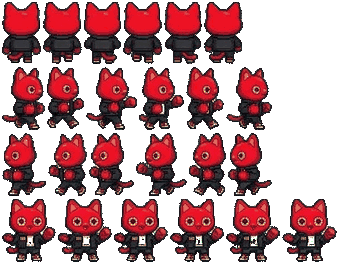
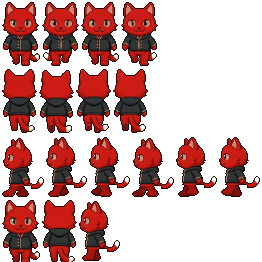
Mist con la hoja de Grok: frente y espalda de 4 cuadros, lado de 6 con piernas que se alternan (v1.17.3)
Claude-Session: https://claude.ai/code/session_012giJR8jrsmCsJ3cu1HsXxX

diff --git a/js/personaje/mascota.js b/js/personaje/mascota.js
@@ -7,10 +7,11 @@
 const GATOS_DIR = [{"muerto":[[0,0,128,65,63.5,65]],"q_ab":[[139,196,63,94,26.2,94],[204,196,62,94,26.2,94]],"ab":[[268,196,62,94,34.1,94],[332,196,64,94,36.1,94],[398,196,62,95,35.4,95],[462,196,63,94,35.1,94]],"q_ar":[[527,196,59,95,26.2,95],[588,196,59,95,26.2,95]],"ar":[[649,196,59,95,26.6,95],[710,196,59,95,26.8,95],[771,196,59,94,31.9,94],[832,196,59,95,31.9,95]],"q_lado":[[893,196,68,94,25.8,94],[963,196,68,94,25.9,94]],"lado":[[1033,196,69,95,25.7,95],[1104,196,69,95,26.3,95],[1175,196,69,95,25.9,95],[1246,196,70,95,26.7,95]],"q_de":[[1318,196,68,95,40.7,95],[0,294,62,95,19.8,95]],"de":[[64,294,70,95,42.4,95],[136,294,70,96,42.6,96],[208,294,69,95,42.1,95],[279,294,70,96,42.4,96]]},{"ab":[[130,0,76,96,32.0,96],[208,0,77,96,31.5,96],[287,0,77,96,31.5,96],[366,0,79,96,31.5,96]],"ar":[[447,0,86,96,48.5,96],[535,0,81,96,37.5,96],[618,0,75,96,35.0,96],[695,0,74,96,31.5,96],[771,0,73,96,32.0,96]],"lado":[[846,0,82,96,34.0,96],[930,0,82,96,32.0,96],[1014,0,84,96,33.0,96],[1100,0,85,96,36.5,96],[1187,0,80,96,35.5,96],[1269,0,80,96,35.0,96]],"de":[[0,98,86,96,49.5,96],[88,98,76,96,42.5,96],[166,98,87,96,50.0,96],[255,98,75,96,44.0,96],[332,98,77,96,43.5,96],[411,98,72,96,42.5,96]],"muerto":[[485,98,122,56,60.5,56]]},{"ab":[[609,98,95,96,36.5,96]],"ar":[[706,98,94,96,35.5,96]],"lado":[[802,98,92,96,32.5,96],[896,98,98,96,33.0,96],[996,98,93,96,34.0,96]]},{"ab":[[1091,98,73,96,30.5,96],[1166,98,72,96,28.0,96]],"ar":[[1240,98,70,96,28.0,96],[1312,98,66,96,36.5,96],[0,196,67,96,36.0,96]],"lado":[[69,196,68,96,25.0,96]]}];
 const GATOS = null;
 const GATOS_IMG = new Image();
-// Mist (Gato Carmesí) tiene su propia hoja en pixel art: frente, espalda, izquierda (lado) y derecha (de), 6 cuadros cada una.
+// Mist (Gato Carmesí) tiene su propia hoja en pixel art: frente y espalda (4 cuadros), lado mirando a la izquierda (6 cuadros; se refleja
+// para la derecha) y un cuadro quieto por vista.
 // k: cuánto más chica es su hoja que las de 96 px; px: se dibuja con escala entera y sin suavizar para que los píxeles queden limpios
 const MIST_IMG = new Image();
-GATOS_DIR[0] = Object.assign({"ar": [[2, 2, 39, 62, 19.5, 62], [43, 2, 39, 62, 19.5, 62], [84, 2, 37, 62, 18.5, 62], [123, 2, 39, 62, 19.5, 62], [164, 2, 38, 62, 19.0, 62], [204, 2, 39, 62, 19.5, 62]], "de": [[2, 67, 43, 63, 21.5, 63], [47, 67, 37, 62, 18.5, 62], [86, 67, 51, 63, 25.5, 63], [139, 67, 45, 63, 22.5, 63], [186, 67, 38, 63, 19.0, 63], [226, 67, 46, 63, 23.0, 63]], "lado": [[2, 133, 44, 63, 22.0, 63], [48, 133, 39, 63, 19.5, 63], [89, 133, 45, 63, 22.5, 63], [136, 133, 51, 63, 25.5, 63], [189, 133, 37, 63, 18.5, 63], [228, 133, 44, 63, 22.0, 63]], "ab": [[2, 199, 54, 63, 27.0, 63], [58, 199, 54, 63, 27.0, 63], [114, 199, 54, 63, 27.0, 63], [170, 199, 54, 63, 27.0, 63], [226, 199, 54, 63, 27.0, 63], [282, 199, 55, 63, 27.5, 63]]}, { img:MIST_IMG, k:96 / 62, px:true });
+GATOS_DIR[0] = Object.assign({"ab": [[2, 2, 38, 64, 19.0, 64], [42, 2, 37, 64, 18.5, 64], [81, 2, 38, 64, 19.0, 64], [121, 2, 37, 64, 18.5, 64]], "ar": [[2, 69, 35, 64, 17.5, 64], [39, 70, 35, 63, 17.5, 63], [76, 69, 35, 64, 17.5, 64], [113, 69, 35, 64, 17.5, 64]], "lado": [[2, 136, 42, 61, 21.0, 61], [46, 136, 41, 61, 20.5, 61], [89, 136, 41, 61, 20.5, 61], [132, 136, 42, 61, 21.0, 61], [176, 136, 41, 61, 20.5, 61], [219, 136, 41, 61, 20.5, 61]], "q_ab": [[2, 200, 38, 64, 19.0, 64]], "q_ar": [[42, 200, 35, 64, 17.5, 64]], "q_lado": [[79, 200, 41, 61, 20.5, 61]]}, { img:MIST_IMG, k:96 / 62, px:true });
 // los demás gatos también tienen su hoja propia en pixel art (4 cuadros por vista, 64 px de alto)
 const HOJAS_GATO = [[1, 'img/personajes/gato-ejecutivo.png', {"ab": [[2, 2, 39, 64, 19, 64], [43, 2, 39, 64, 19, 64], [84, 2, 39, 64, 19, 64], [125, 2, 39, 64, 19, 64]], "ar": [[2, 68, 38, 64, 19, 64], [42, 68, 38, 64, 19, 64], [82, 68, 38, 64, 19, 64], [122, 68, 38, 64, 19, 64]], "lado": [[2, 135, 41, 64, 17, 64], [45, 134, 39, 65, 15, 65], [86, 135, 41, 64, 17, 64], [129, 134, 39, 65, 15, 65]]}], [2, 'img/personajes/gato-calico.png', {"ab": [[2, 2, 63, 65, 24, 65], [67, 2, 63, 65, 24, 65], [132, 2, 63, 65, 24, 65], [197, 2, 63, 65, 24, 65]], "ar": [[2, 69, 63, 66, 24, 66], [67, 69, 63, 66, 24, 66], [132, 69, 63, 66, 24, 66], [197, 69, 63, 66, 24, 66]], "lado": [[2, 139, 62, 65, 23, 65], [66, 138, 62, 66, 23, 66], [130, 138, 62, 66, 23, 66], [194, 137, 62, 67, 23, 67]]}], [3, 'img/personajes/gato-misterioso.png', {"ab": [[2, 2, 49, 65, 20, 65], [53, 2, 49, 65, 20, 65], [104, 2, 49, 65, 20, 65], [155, 2, 49, 65, 20, 65]], "ar": [[2, 69, 47, 65, 19, 65], [51, 69, 47, 65, 19, 65], [100, 69, 47, 65, 19, 65], [149, 69, 47, 65, 19, 65]], "lado": [[2, 137, 46, 65, 18, 65], [50, 136, 46, 66, 18, 66], [98, 137, 46, 65, 18, 65], [146, 136, 46, 66, 18, 66]]}]];
 for (const [i, src, dir] of HOJAS_GATO){ const img = new Image(); img.dataset.src = src; GATOS_DIR[i] = Object.assign(dir, { img, k:96 / 62, px:true }); }

diff --git a/index.html b/index.html
@@ -16,7 +16,7 @@
 <title>Riftborn: El Ascenso del Eclipse</title>
 <link rel="preconnect" href="https://fonts.googleapis.com">
 <link href="https://fonts.googleapis.com/css2?family=Marcellus&family=Rajdhani:wght@500;600;700&display=swap" rel="stylesheet">
-<link rel="stylesheet" href="css/style.css?v=1.17.2">
+<link rel="stylesheet" href="css/style.css?v=1.17.3">
 </head>
 <body>
 <canvas id="c"></canvas>
@@ -371,42 +371,42 @@
   <button class="btn principal" id="btnRevivir">Despertar en la posada</button>
 </div>
 
-<script src="idioma/en.js?v=1.17.2"></script>
-<script src="idioma/idioma.js?v=1.17.2"></script>
-<script src="auth/auth.js?v=1.17.2"></script>
+<script src="idioma/en.js?v=1.17.3"></script>
+<script src="idioma/idioma.js?v=1.17.3"></script>
+<script src="auth/auth.js?v=1.17.3"></script>
 <!-- el juego, por temas: el orden importa (cada archivo usa lo que cargan los anteriores) -->
-<script src="js/nucleo/datos.js?v=1.17.2"></script>
-<script src="js/nucleo/partida.js?v=1.17.2"></script>
-<script src="js/mundo/ciudad.js?v=1.17.2"></script>
-<script src="js/mundo/casino.js?v=1.17.2"></script>
-<script src="js/historia/prologo.js?v=1.17.2"></script>
-<script src="js/historia/historia.js?v=1.17.2"></script>
-<script src="js/historia/videos.js?v=1.17.2"></script>
-<script src="js/mundo/edificios.js?v=1.17.2"></script>
-<script src="js/mundo/mazmorras.js?v=1.17.2"></script>
-<script src="js/nucleo/controles.js?v=1.17.2"></script>
-<script src="js/personaje/perfil.js?v=1.17.2"></script>
-<script src="js/combate/combate.js?v=1.17.2"></script>
-<script src="js/combate/clases.js?v=1.17.2"></script>
-<script src="js/combate/devorar.js?v=1.17.2"></script>
-<script src="js/combate/sacerdote-arquero.js?v=1.17.2"></script>
-<script src="js/combate/efectos.js?v=1.17.2"></script>
-<script src="js/nucleo/actualizar.js?v=1.17.2"></script>
-<script src="js/combate/jefes.js?v=1.17.2"></script>
-<script src="js/personaje/sprites.js?v=1.17.2"></script>
-<script src="js/mundo/dibujo-mundo.js?v=1.17.2"></script>
-<script src="js/personaje/mascota.js?v=1.17.2"></script>
-<script src="js/mundo/dibujo-escenas.js?v=1.17.2"></script>
-<script src="js/mundo/npc.js?v=1.17.2"></script>
-<script src="js/personaje/progreso.js?v=1.17.2"></script>
-<script src="music/sonido.js?v=1.17.2"></script>
-<script src="js/combate/grupo.js?v=1.17.2"></script>
-<script src="js/personaje/emblemas.js?v=1.17.2"></script>
-<script src="js/mundo/eventos.js?v=1.17.2"></script>
-<script src="js/mundo/ambiente.js?v=1.17.2"></script>
-<script src="js/nucleo/dibujo.js?v=1.17.2"></script>
-<script src="js/personaje/montura.js?v=1.17.2"></script>
-<script src="js/mundo/monstruos.js?v=1.17.2"></script>
-<script src="js/nucleo/inicio.js?v=1.17.2"></script>
+<script src="js/nucleo/datos.js?v=1.17.3"></script>
+<script src="js/nucleo/partida.js?v=1.17.3"></script>
+<script src="js/mundo/ciudad.js?v=1.17.3"></script>
+<script src="js/mundo/casino.js?v=1.17.3"></script>
+<script src="js/historia/prologo.js?v=1.17.3"></script>
+<script src="js/historia/historia.js?v=1.17.3"></script>
+<script src="js/historia/videos.js?v=1.17.3"></script>
+<script src="js/mundo/edificios.js?v=1.17.3"></script>
+<script src="js/mundo/mazmorras.js?v=1.17.3"></script>
+<script src="js/nucleo/controles.js?v=1.17.3"></script>
+<script src="js/personaje/perfil.js?v=1.17.3"></script>
+<script src="js/combate/combate.js?v=1.17.3"></script>
+<script src="js/combate/clases.js?v=1.17.3"></script>
+<script src="js/combate/devorar.js?v=1.17.3"></script>
+<script src="js/combate/sacerdote-arquero.js?v=1.17.3"></script>
+<script src="js/combate/efectos.js?v=1.17.3"></script>
+<script src="js/nucleo/actualizar.js?v=1.17.3"></script>
+<script src="js/combate/jefes.js?v=1.17.3"></script>
+<script src="js/personaje/sprites.js?v=1.17.3"></script>
+<script src="js/mundo/dibujo-mundo.js?v=1.17.3"></script>
+<script src="js/personaje/mascota.js?v=1.17.3"></script>
+<script src="js/mundo/dibujo-escenas.js?v=1.17.3"></script>
+<script src="js/mundo/npc.js?v=1.17.3"></script>
+<script src="js/personaje/progreso.js?v=1.17.3"></script>
+<script src="music/sonido.js?v=1.17.3"></script>
+<script src="js/combate/grupo.js?v=1.17.3"></script>
+<script src="js/personaje/emblemas.js?v=1.17.3"></script>
+<script src="js/mundo/eventos.js?v=1.17.3"></script>
+<script src="js/mundo/ambiente.js?v=1.17.3"></script>
+<script src="js/nucleo/dibujo.js?v=1.17.3"></script>
+<script src="js/personaje/montura.js?v=1.17.3"></script>
+<script src="js/mundo/monstruos.js?v=1.17.3"></script>
+<script src="js/nucleo/inicio.js?v=1.17.3"></script>
 </body>
 </html>

diff --git a/idioma/en.js b/idioma/en.js
@@ -1657,7 +1657,8 @@ window.I18N_EN = {
 "{} va guardado mientras montas": "{} stays tucked away while you ride",
 "Versión 1.17.0 (Eclipse)": "Version 1.17.0 (Eclipse)",
 "Versión 1.17.1 (Eclipse)": "Version 1.17.1 (Eclipse)",
-"Versión 1.17.2 (Eclipse)": "Version 1.17.2 (Eclipse)"
+"Versión 1.17.2 (Eclipse)": "Version 1.17.2 (Eclipse)",
+"Versión 1.17.3 (Eclipse)": "Version 1.17.3 (Eclipse)"
 };
 // términos sueltos: se aplican solo a lo que, tras buscar la frase entera, sigue en español
 window.I18N_EN_TERMINOS = [["(\\S+) del Monarca", "Monarch's $1"], ["(\\S+) del Musgo", "Moss $1"], ["(\\S+) de Arena", "Sand $1"], ["(\\S+) de Escarcha", "Frost $1"], ["(\\S+) de Magma", "Magma $1"], ["(\\S+) del Vacío", "Void $1"], ["(\\S+) Carmesí", "Crimson $1"], ["\\bCapucha\\b", "Hood"], ["\\bYelmo\\b", "Helm"], ["\\bDiadema\\b", "Circlet"], ["\\bAmuleto\\b", "Amulet"], ["\\bColgante\\b", "Pendant"], ["\\bTalismán\\b", "Talisman"], ["\\bAbrigo\\b", "Coat"], ["\\bCoraza\\b", "Cuirass"], ["\\bTúnica\\b", "Tunic"], ["\\bGuantes\\b", "Gloves"], ["\\bGarras\\b", "Claws"], ["\\bBrazales\\b", "Bracers"], ["\\bPantalones\\b", "Trousers"], ["\\bGrebas\\b", "Greaves"], ["\\bMusleras\\b", "Legguards"], ["\\bBotas\\b", "Boots"], ["\\bSandalias\\b", "Sandals"], ["\\bEscarpes\\b", "Sabatons"], ["\\bAnillo\\b", "Ring"], ["\\bSello\\b", "Signet"], ["\\bSortija\\b", "Band"], ["\\bEspada\\b", "Sword"], ["\\bDaga\\b", "Dagger"], ["\\bBáculo\\b", "Staff"], ["\\bGrimorio\\b", "Grimoire"], ["\\bArco\\b", "Bow"], ["\\bCabeza\\b", "Head"], ["\\bCuello\\b", "Neck"], ["\\bPecho\\b", "Chest"], ["\\bManos\\b", "Hands"], ["\\bPiernas\\b", "Legs"], ["\\bPies\\b", "Feet"], ["\\bDedo\\b", "Finger"], ["\\bArma\\b", "Weapon"], ["\\bFuerza\\b", "Strength"], ["\\bAgilidad\\b", "Agility"], ["\\bVitalidad\\b", "Vitality"], ["\\bInteligencia\\b", "Intellect"], ["(\\d+) de daño\\b", "$1 damage"], ["\\bde daño\\b", "damage"], ["\\bmaná\\b", "mana"], ["\\bmonstruos\\b", "monsters"], ["\\bnivel (\\d+)", "level $1"], ["\\bNivel (\\d+)", "Level $1"], ["\\bComún\\b", "Common"], ["\\bPoco común\\b", "Uncommon"], ["\\bRaro\\b", "Rare"], ["\\bÉpico\\b", "Epic"], ["\\bLegendario\\b", "Legendary"], [" y ", " and "]];

diff --git a/js/nucleo/datos.js b/js/nucleo/datos.js
@@ -1,7 +1,7 @@
 // =====================================================
 //  UTILIDADES
 // =====================================================
-const VERSION = '1.17.2'; // también en index.html (estilos y scripts)
+const VERSION = '1.17.3'; // también en index.html (estilos y scripts)
 const $ = id => document.getElementById(id);
 // el juego está repartido en varios archivos: lo que llega pronto (una imagen ya guardada) espera a que estén todos
 const alCargar = fn => document.readyState === 'loading' ? addEventListener('DOMContentLoaded', fn, { once:true }) : fn();
